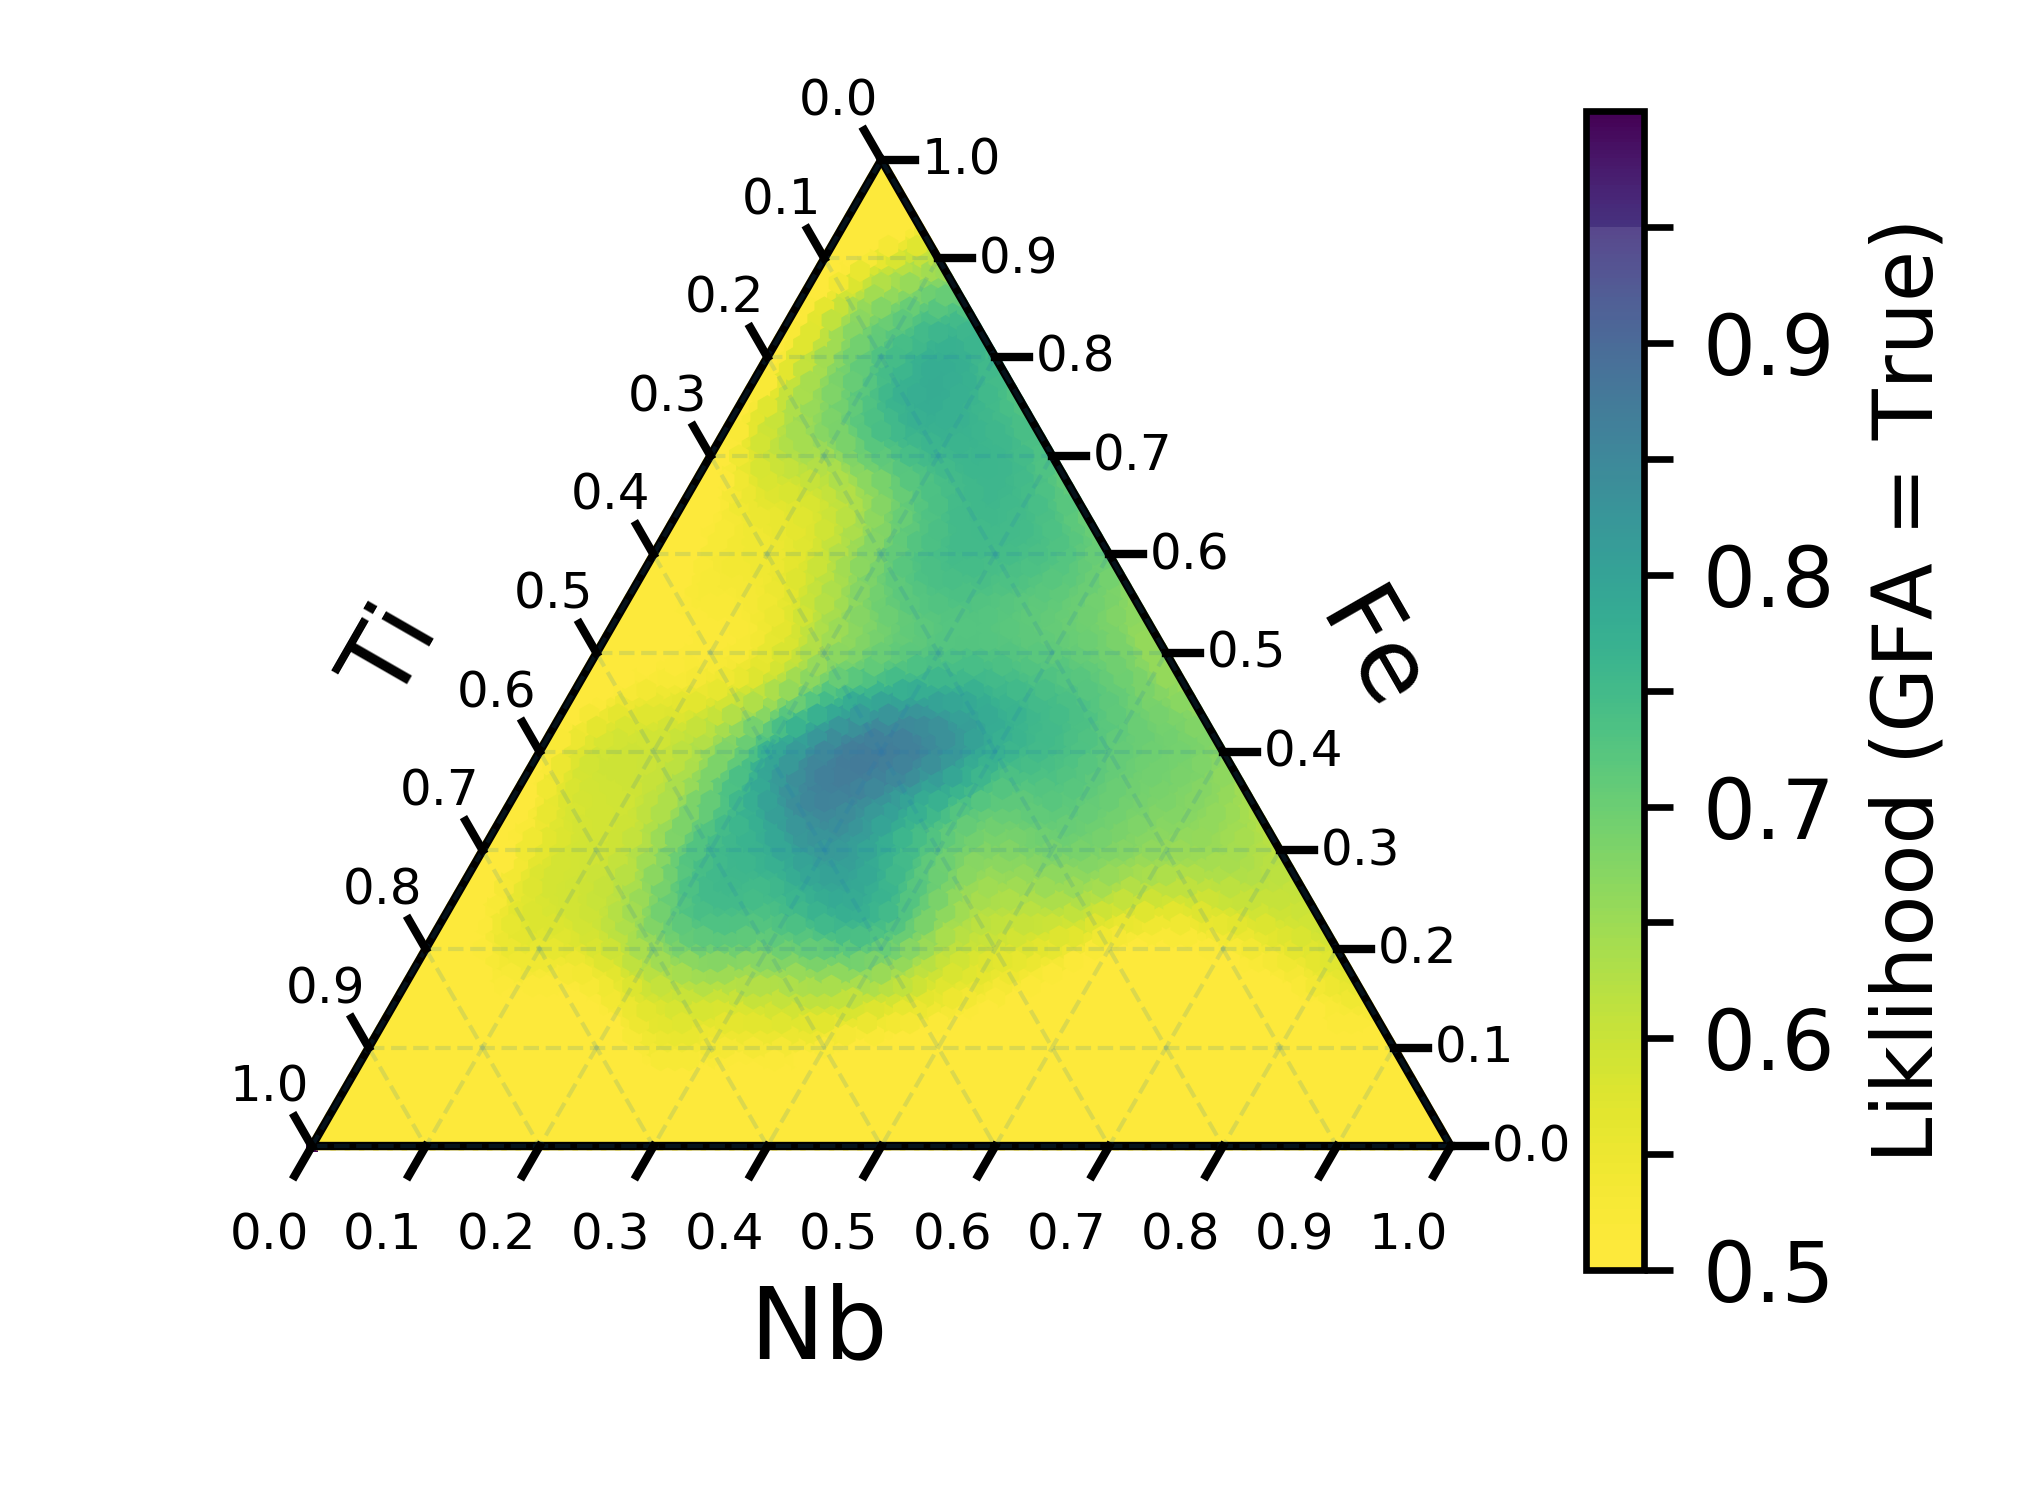
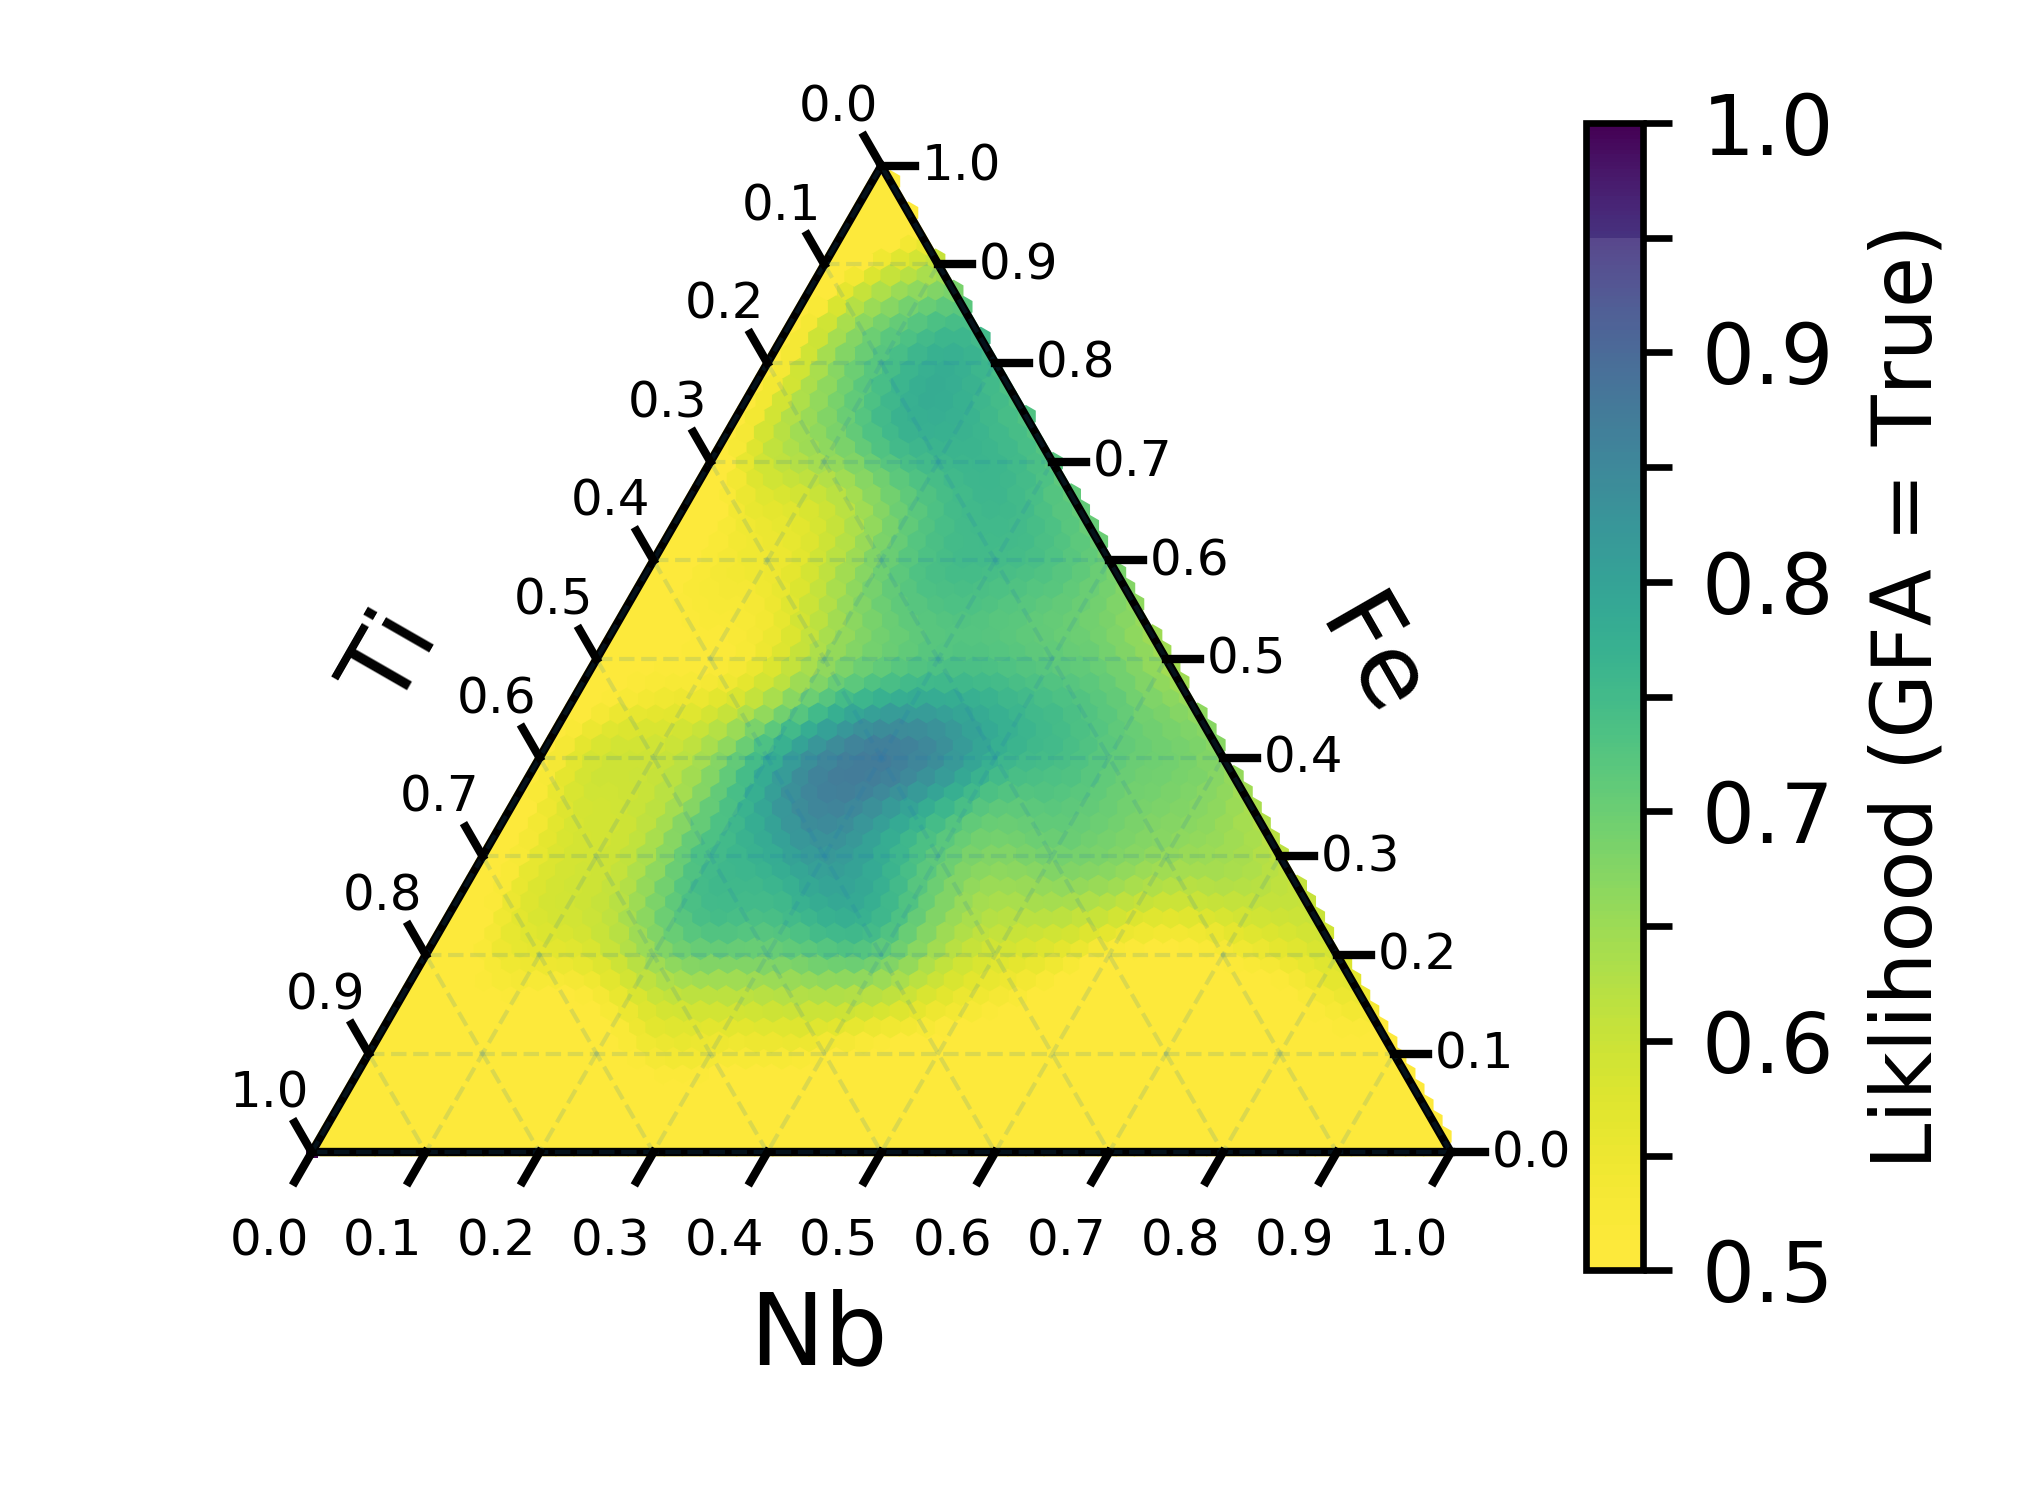
Fixed a few ugly bits of the charts
- Missing tick at 1.0
- Heatmap spacing off

diff --git a/machine-learning/figures/ternary_helper.py b/machine-learning/figures/ternary_helper.py
@@ -6,10 +6,47 @@ __author__ = "Travis Williams"
 from matplotlib import pyplot as plt
 from matplotlib import cm
 from matplotlib.colors import ListedColormap
+from scipy import interpolate
 import numpy as np
 import os
 
 import ternary
+
+def interpolate_probabilities(a,b,c,p):
+    """Prepare probabilities for plotting with ternary's heatmap
+    
+    Inputs:
+        a,b,c - Fractions of metal A,B,C
+        p - Probability function to be interpolated
+    Output:
+        Probabilities at a finer spacing all over the ternary, in a form that 
+    """
+        
+    probability_func = interpolate.Rbf(a,b,c,p, function='multiquadric',
+                                           smooth=0.3)
+
+    metal1_range = np.linspace(0, 100, 63, endpoint=False) # Makes the nicest plots
+    metal2_range = metal1_range[:] # Copy
+
+    metal1 = []
+    metal2 = []
+    metal3 = []
+
+    probability_interpolate = []
+
+    for i in metal1_range:
+        for j in metal2_range:
+            if i + j <= 100 and i+j >= 0:
+                try:
+                    metal1.append(i)
+                    metal2.append(j)
+                    metal3.append(100-i-j)
+                    probability_interpolate.append(float(probability_func(i, j, (100-i-j))))
+                except(ValueError):
+                    continue
+
+    ternary_data = np.concatenate(([metal1],[metal2],[metal3],[probability_interpolate]), axis = 0)
+    return np.transpose(ternary_data)
 
 def make_cmap(base='viridis_r', scale_factor=1.5, cutoff=0.9, adjust_factor=0.1):
     """Make a colormap that this scaled to emphasize the top of the range.
@@ -119,9 +156,8 @@ def interpolation_ternary(data, tertitle='',  labelNames=('Species A','Species B
     
     cb.set_label(cbl)
     
-    ticks = np.arange(0.5, 1.0, 0.05)
+    ticks = np.arange(0.5, 1.01, 0.05)
     cb.set_ticks(ticks)
-    cb.set_ticks = np.arange(0.5, 1.0, 0.05)
     tick_labels = np.array(['%.1f'%t for t in ticks])
     tick_labels[1::2] = ''
     cb.set_ticklabels(tick_labels)

diff --git a/machine-learning/figures/figure5b.py b/machine-learning/figures/figure5b.py
@@ -12,11 +12,9 @@ Plot the formation enthalpy predicted with
 import numpy as np
 import matplotlib.pyplot as plt
 from matplotlib import cm
-from scipy import interpolate
-import imp
 import os
 import pandas as pd
-from ternary_helper import interpolation_ternary, make_cmap
+from ternary_helper import interpolation_ternary, make_cmap, interpolate_probabilities
 
 # Important variables to change
 path = os.path.join('..','3_with-CoVZr-data','plots')
@@ -31,37 +29,8 @@ Nb = data['X_Nb']*100
 Ti = data['X_Ti']*100
 probability = data['probability']
 
-
 # Interpolate probabilities
-probability_func = interpolate.Rbf(Fe, Nb, Ti, probability, function='multiquadric',
-                                       smooth=0.3)
-
-metal1_range = np.arange(0, 100, 1.25)
-metal2_range = np.arange(0, 100, 1.25)
-
-metal1 = []
-metal2 = []
-metal3 = []
-
-probability_interpolate = []
-
-for i in metal1_range:
-    for j in metal2_range:
-        if i + j <= 100 and i+j >= 0:
-            try:
-                metal1.append(i)
-                metal2.append(j)
-                metal3.append(100-i-j)
-                probability_interpolate.append(float(probability_func(i, j, (100-i-j))))
-            except(NbalueError):
-                continue
-
-
-# Make a new colormap that has alpha of 0.5 below 0.95%
-                
-ternary_data = np.concatenate(([metal1],[metal2],[metal3],[probability_interpolate]), axis = 0)
-ternary_data = np.transpose(ternary_data)
-
+ternary_data = interpolate_probabilities(Fe, Nb, Ti, probability)
 interpolation_ternary(ternary_data, tertitle='',  labelNames=('Fe', 'Nb', 'Ti'), scale=100,
                        sv=True, svpth=save_path, svflnm='Figure5b.png',
                        cbl='Liklihood (GFA = True)', vmin = 0.5, vmax = 1, cmap=make_cmap(), cb=True, style='h')

diff --git a/machine-learning/figures/figure4b.py b/machine-learning/figures/figure4b.py
@@ -12,11 +12,9 @@ Plot the formation enthalpy predicted with
 import numpy as np
 import matplotlib.pyplot as plt
 from matplotlib import cm
-from scipy import interpolate
-import imp
 import os
 import pandas as pd
-from ternary_helper import interpolation_ternary, make_cmap
+from ternary_helper import interpolation_ternary, make_cmap, interpolate_probabilities
 
 # Important variables to change
 path = os.path.join('..','2_with-processing-method','plots')
@@ -33,35 +31,9 @@ probability = data['probability']
 
 
 # Interpolate probabilities
-probability_func = interpolate.Rbf(Co, V, Zr, probability, function='multiquadric',
-                                       smooth=0.3)
 
-metal1_range = np.arange(0, 100, 1.25)
-metal2_range = np.arange(0, 100, 1.25)
-
-metal1 = []
-metal2 = []
-metal3 = []
-
-probability_interpolate = []
-
-for i in metal1_range:
-    for j in metal2_range:
-        if i + j <= 100 and i+j >= 0:
-            try:
-                metal1.append(i)
-                metal2.append(j)
-                metal3.append(100-i-j)
-                probability_interpolate.append(float(probability_func(i, j, (100-i-j))))
-            except(ValueError):
-                continue
-
-
-# Make a new colormap that has alpha of 0.5 below 0.95%
-                
-ternary_data = np.concatenate(([metal1],[metal2],[metal3],[probability_interpolate]), axis = 0)
-ternary_data = np.transpose(ternary_data)
-
+    
+ternary_data = interpolate_probabilities(Co, V, Zr, probability)
 interpolation_ternary(ternary_data, tertitle='',  labelNames=('Co', 'V', 'Zr'), scale=100,
                        sv=True, svpth=save_path, svflnm='Figure4b.png',
                        cbl='Liklihood (GFA = True)', vmin = 0.5, vmax = 1, cmap=make_cmap(), cb=True, style='h')

diff --git a/machine-learning/figures/figure2c1.py b/machine-learning/figures/figure2c1.py
@@ -14,7 +14,7 @@ from scipy import interpolate
 import imp
 import os
 import pandas as pd
-from ternary_helper import interpolation_ternary, make_cmap
+from ternary_helper import interpolation_ternary, make_cmap, interpolate_probabilities
 
 # Important variables to change
 path = os.path.join('..','0_original-model','plots')
@@ -31,36 +31,7 @@ probability = data['probability']
 
 
 # Interpolate probabilities
-probability_func = interpolate.Rbf(Co, V, Zr, probability, function='multiquadric',
-                                       smooth=0.3)
-
-metal1_range = np.linspace(0, 100, 63)
-metal2_range = np.linspace(0, 100, 63)
-
-metal1 = []
-metal2 = []
-metal3 = []
-
-probability_interpolate = []
-
-for i in metal1_range:
-    for j in metal2_range:
-        if i + j <= 100 and i+j >= 0:
-            try:
-                metal1.append(i)
-                metal2.append(j)
-                metal3.append(100-i-j)
-                probability_interpolate.append(float(probability_func(i, j, (100-i-j))))
-            except(ValueError):
-                continue
-
-
-# Make a new colormap that lightens colors color
-new_cmap = make_cmap()
-                    
-ternary_data = np.concatenate(([metal1],[metal2],[metal3],[probability_interpolate]), axis = 0)
-ternary_data = np.transpose(ternary_data)
-
+ternary_data = interpolate_probabilities(Co, V, Zr, probability)
 interpolation_ternary(ternary_data, tertitle='',  labelNames=('Co', 'V', 'Zr'), scale=100,
                        sv=True, svpth=save_path, svflnm='Figure2c1.png',
-                       cbl='Liklihood (GFA = True)', vmin = 0.5, vmax = 1, cmap=new_cmap, cb=True, style='h')
+                       cbl='Liklihood (GFA = True)', vmin = 0.5, vmax = 1, cmap=make_cmap(), cb=True, style='h')

diff --git a/machine-learning/figures/figure5a.py b/machine-learning/figures/figure5a.py
@@ -16,7 +16,7 @@ from scipy import interpolate
 import imp
 import os
 import pandas as pd
-from ternary_helper import interpolation_ternary, make_cmap
+from ternary_helper import interpolation_ternary, make_cmap, interpolate_probabilities
 
 # Important variables to change
 path = os.path.join('..','2_with-processing-method','plots')
@@ -33,35 +33,7 @@ probability = data['probability']
 
 
 # Interpolate probabilities
-probability_func = interpolate.Rbf(Fe, Nb, Ti, probability, function='multiquadric',
-                                       smooth=0.3)
-
-metal1_range = np.arange(0, 100, 1.25)
-metal2_range = np.arange(0, 100, 1.25)
-
-metal1 = []
-metal2 = []
-metal3 = []
-
-probability_interpolate = []
-
-for i in metal1_range:
-    for j in metal2_range:
-        if i + j <= 100 and i+j >= 0:
-            try:
-                metal1.append(i)
-                metal2.append(j)
-                metal3.append(100-i-j)
-                probability_interpolate.append(float(probability_func(i, j, (100-i-j))))
-            except(NbalueError):
-                continue
-
-
-# Make a new colormap that has alpha of 0.5 below 0.95%
-                
-ternary_data = np.concatenate(([metal1],[metal2],[metal3],[probability_interpolate]), axis = 0)
-ternary_data = np.transpose(ternary_data)
-
+ternary_data = interpolate_probabilities(Fe, Nb, Ti, probability)
 interpolation_ternary(ternary_data, tertitle='',  labelNames=('Fe', 'Nb', 'Ti'), scale=100,
                        sv=True, svpth=save_path, svflnm='Figure5a.png',
                        cbl='Liklihood (GFA = True)', vmin = 0.5, vmax = 1, cmap=make_cmap(), cb=True, style='h')

diff --git a/machine-learning/figures/figure4c.py b/machine-learning/figures/figure4c.py
@@ -16,7 +16,7 @@ from scipy import interpolate
 import imp
 import os
 import pandas as pd
-from ternary_helper import interpolation_ternary, make_cmap
+from ternary_helper import interpolation_ternary, make_cmap, interpolate_probabilities
 
 # Important variables to change
 path = os.path.join('..','3_with-CoVZr-data','plots')
@@ -33,35 +33,7 @@ probability = data['probability']
 
 
 # Interpolate probabilities
-probability_func = interpolate.Rbf(Co, V, Zr, probability, function='multiquadric',
-                                       smooth=0.3)
-
-metal1_range = np.arange(0, 100, 1.25)
-metal2_range = np.arange(0, 100, 1.25)
-
-metal1 = []
-metal2 = []
-metal3 = []
-
-probability_interpolate = []
-
-for i in metal1_range:
-    for j in metal2_range:
-        if i + j <= 100 and i+j >= 0:
-            try:
-                metal1.append(i)
-                metal2.append(j)
-                metal3.append(100-i-j)
-                probability_interpolate.append(float(probability_func(i, j, (100-i-j))))
-            except(ValueError):
-                continue
-
-
-# Make a new colormap that has alpha of 0.5 below 0.95%
-                
-ternary_data = np.concatenate(([metal1],[metal2],[metal3],[probability_interpolate]), axis = 0)
-ternary_data = np.transpose(ternary_data)
-
+ternary_data = interpolate_probabilities(Co, V, Zr, probability)
 interpolation_ternary(ternary_data, tertitle='',  labelNames=('Co', 'V', 'Zr'), scale=100,
                        sv=True, svpth=save_path, svflnm='Figure4c.png',
                        cbl='Liklihood (GFA = True)', vmin = 0.5, vmax = 1, cmap=make_cmap(), cb=True, style='h')
